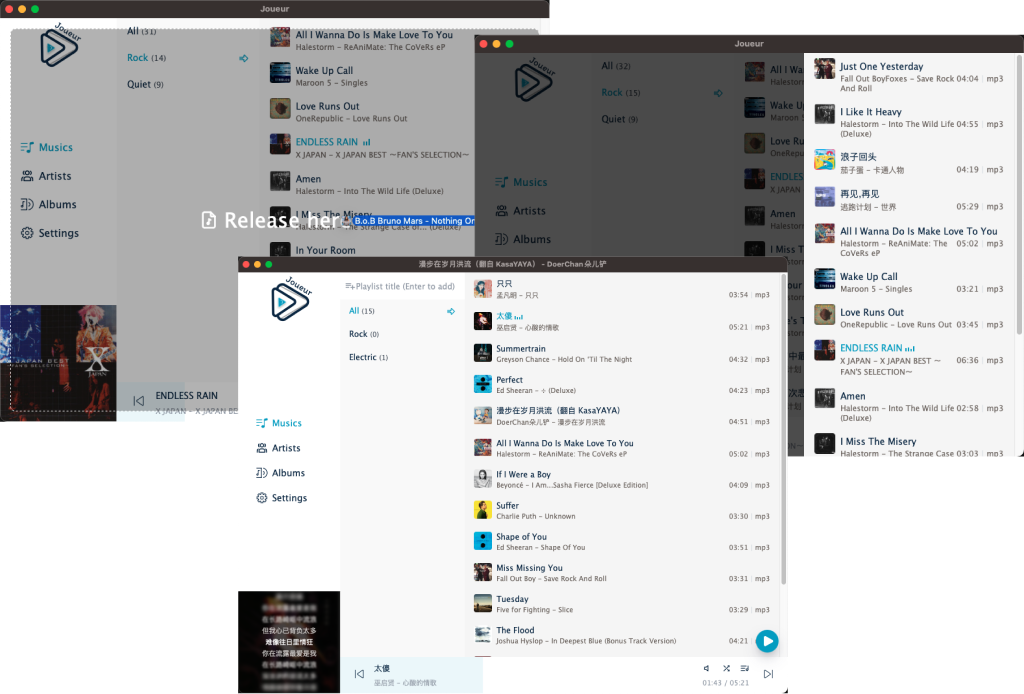
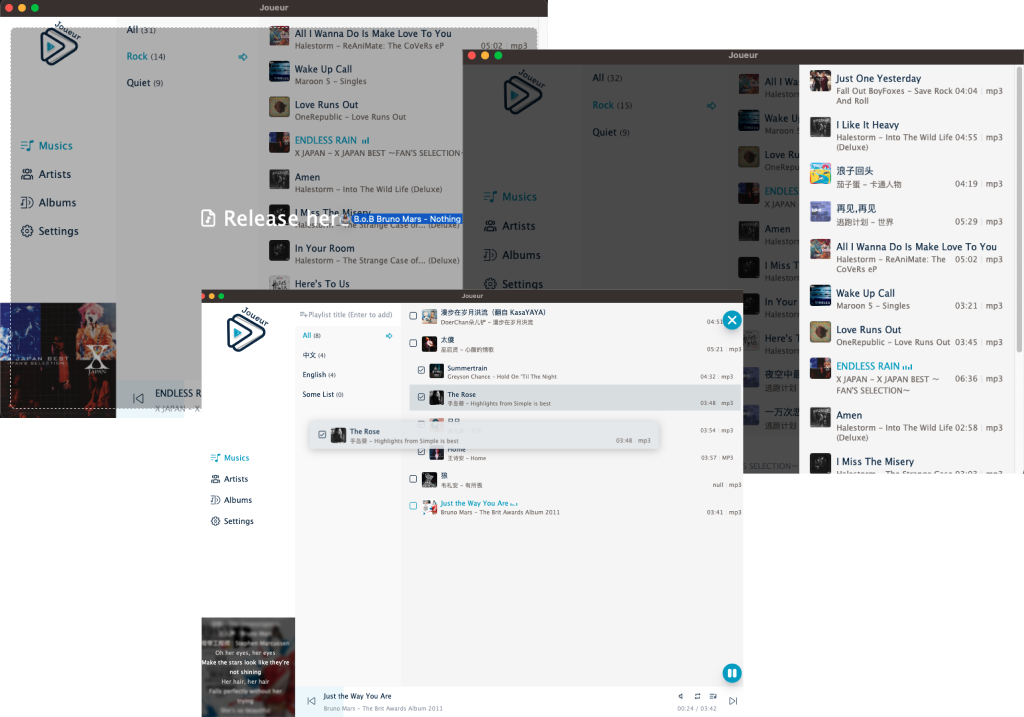
docs: update screenshots

diff --git a/src/routes/+page.svelte b/src/routes/+page.svelte
@@ -3,6 +3,7 @@
   import { currentPlaylistSongs, selectedPlaylistId } from '$lib/store'
   import Playlists from '$lib/components/Playlists.svelte'
   import { db } from '$lib/db'
+  import { message, ask } from '@tauri-apps/api/dialog'
 
   let draggingSongId: number | null
   let draggingSongIds: number[] = []
@@ -41,6 +42,10 @@
     {
       title: 'Delete from playlist',
       name: 'delete-from-playlist',
+    },
+    {
+      title: 'Delete from application',
+      name: 'delete-from-application',
     },
   ]
 
@@ -84,6 +89,58 @@
       selectedSongIds = []
     }
   }
+
+  const handleDeleteFromApplication = async (e: CustomEvent<number>) => {
+    const yes = await ask(
+      'Deletion from application can not be reverted. Are you sure?',
+      { type: 'warning', title: 'Confirm' }
+    )
+    if (!yes) return
+    const songIdToRemove = e.detail
+    db.transaction(
+      'rw',
+      db.playlists,
+      db.songs,
+      db.artists,
+      db.albums,
+      async () => {}
+    )
+      .then(async () => {
+        const playlistsContainSong = await db.playlists
+          .filter(pl => pl.songIds.includes(songIdToRemove))
+          .toArray()
+        for (const pl of playlistsContainSong) {
+          pl.songIds = pl.songIds.filter(id => id !== songIdToRemove)
+          await db.playlists.update(pl.id, pl)
+        }
+        await db.songs.where('id').equals(songIdToRemove).delete()
+
+        const artistsContainSong = await db.artists
+          .filter(ar => ar.songIds.includes(songIdToRemove))
+          .toArray()
+
+        for (const ar of artistsContainSong) {
+          ar.songIds = ar.songIds.filter(id => id !== songIdToRemove)
+          if (!ar.songIds.length) await db.artists.delete(ar.id)
+          else await db.artists.update(ar.id, ar)
+        }
+
+        const albumsContainSong = await db.albums
+          .filter(al => al.songIds.includes(songIdToRemove))
+          .toArray()
+
+        for (const al of albumsContainSong) {
+          al.songIds = al.songIds.filter(id => id !== songIdToRemove)
+          if (!al.songIds.length) await db.albums.delete(al.id)
+          else await db.albums.update(al.id, al)
+        }
+
+        message('Delete success', { title: 'Success', type: 'info' })
+      })
+      .catch(err => {
+        message(err.message, { title: 'Error', type: 'error' })
+      })
+  }
 </script>
 
 <div class="start">
@@ -107,6 +164,7 @@
       on:maybe-drop-in-playlist="{handleMaybeDropInPlaylist}"
       on:delete-from-playlist="{handleRemoveFromList}"
       on:delete-all-selected-songs-from-play-list="{handleRemoveAllSelectedSongsFromList}"
+      on:delete-from-application="{handleDeleteFromApplication}"
     />
   {/await}
 </div>

diff --git a/src/routes/+layout.svelte b/src/routes/+layout.svelte
@@ -99,9 +99,6 @@
             for (const path of evt.payload.paths) {
               if (isAudio(path)) {
                 const song = await getSongInfoFromFile(path)
-                if (song) {
-                  console.log(song)
-                }
                 await db.addSong(song)
               } else {
                 const res = await readDir(path, { recursive: true })

diff --git a/src/routes/settings/+layout.svelte b/src/routes/settings/+layout.svelte
@@ -33,7 +33,7 @@
     --uno: 'flex-grow flex items-stretch bg-light-2';
   }
   .settings-category {
-    --uno: 'w-[20vw] max-w-[320px] min-w-[220px]';
+    --uno: 'w-[30vw] max-w-[480px] min-w-[200px]';
   }
   .arrow {
     --uno: 'flex items-center text-5';
